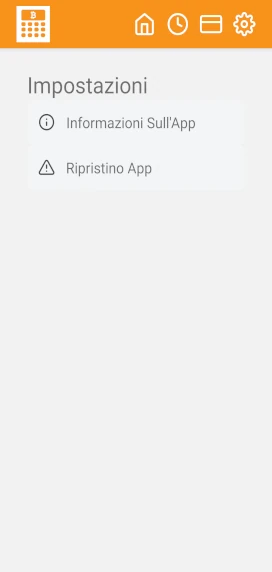
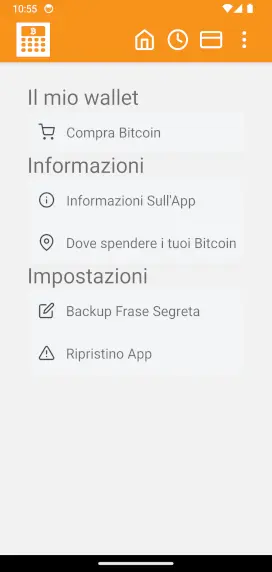
feat: 0.2.1 features

diff --git a/src/js/components/pages/Faq/Faq.tsx b/src/js/components/pages/Faq/Faq.tsx
@@ -10,6 +10,8 @@ import WalletScreenshot from '@/src/assets/images/app-screen-wallet.webp';
 import SettingsScreenshot from '@/src/assets/images/app-screen-settings.webp';
 import FactoryResetScreenshot from '@/src/assets/images/app-screen-factory.webp';
 import HistoryScreenshot from '@/src/assets/images/app-screen-history.webp';
+import MoonpayScreenshot from '@/src/assets/images/app-screen-moonpay.webp';
+import BuyBitcoinScreenshot from '@/src/assets/images/app-screen-btc-providers.webp';
 
 import Device from '../../reusable/Device';
 import Donate from '../../shared/Donate';
@@ -225,10 +227,68 @@ const Faq = () => (
             selezionare le date di inizio e fine periodo per cui si vogliono
             esportare le transazioni. Quindi cliccare su{' '}
             <strong>&quot;Scarica CSV&quot;</strong>e verrà scaricato un file
-            CSV con tutte le transazioni del periodo selezionato nella cartella
-            Documenti del vostro dispositivo.
+            CSV con tutte le transazioni del periodo selezionato nella cartella{' '}
+            <strong>Download</strong> del vostro dispositivo.
           </Paragraph.Leading>
           <Device.IPhone alt="wallet screenshot" image={HistoryScreenshot} />
+        </Accordion>
+      </Container.Container>
+      <Container.Container className="border-t border-gray-200 p-2">
+        <Accordion
+          title={
+            <Heading.H2 className="text-xl pt-4">
+              È possibile acquistare Bitcoin direttamente da SatoshisPay?
+            </Heading.H2>
+          }
+        >
+          <Container.Container>
+            <Container.FlexCols className="gap-8">
+              <Container.Flex className="flex-row sm:flex-col-reverse">
+                <Container.Container className="flex-1">
+                  <Device.IPhone
+                    alt="settings screenshot"
+                    image={SettingsScreenshot}
+                  />
+                </Container.Container>
+                <Paragraph.Leading className="flex-1">
+                  Sì, è possibile acquistare Bitcoin direttamente da
+                  SatoshisPay. Per farlo è sufficiente recarsi nella pagina{' '}
+                  <strong>
+                    <Icon.MoreVertical className="inline" />
+                    Altro
+                  </strong>{' '}
+                  e cliccare su <strong>Acquista Bitcoin</strong>.
+                </Paragraph.Leading>
+              </Container.Flex>
+              <Container.Flex className="flex-row sm:flex-col-reverse">
+                <Container.Container className="flex-1">
+                  <Device.IPhone
+                    alt="buy bitcoin screenshot"
+                    image={BuyBitcoinScreenshot}
+                  />
+                </Container.Container>
+                <Paragraph.Leading className="flex-1">
+                  A questo punto verrai reindirizzato alla pagina di selezione
+                  della piattaforma da cui acquistare Bitcoin. Clicca su quella
+                  che preferisci.
+                </Paragraph.Leading>
+              </Container.Flex>
+              <Container.Flex className="flex-row sm:flex-col-reverse">
+                <Container.Container className="flex-1">
+                  <Device.IPhone
+                    alt="buy bitcoin screenshot"
+                    image={MoonpayScreenshot}
+                  />
+                </Container.Container>
+                <Paragraph.Leading className="flex-1">
+                  Una volta selezionata la piattaforma, verrai reindirizzato al
+                  sito della piattaforma scelta per completare l&apos;acquisto.
+                  Una volta completato l&apos;acquisto, i Bitcoin verranno
+                  inviati al tuo wallet.
+                </Paragraph.Leading>
+              </Container.Flex>
+            </Container.FlexCols>
+          </Container.Container>
         </Accordion>
       </Container.Container>
       <Container.Container className="border-t border-gray-200 p-2">
